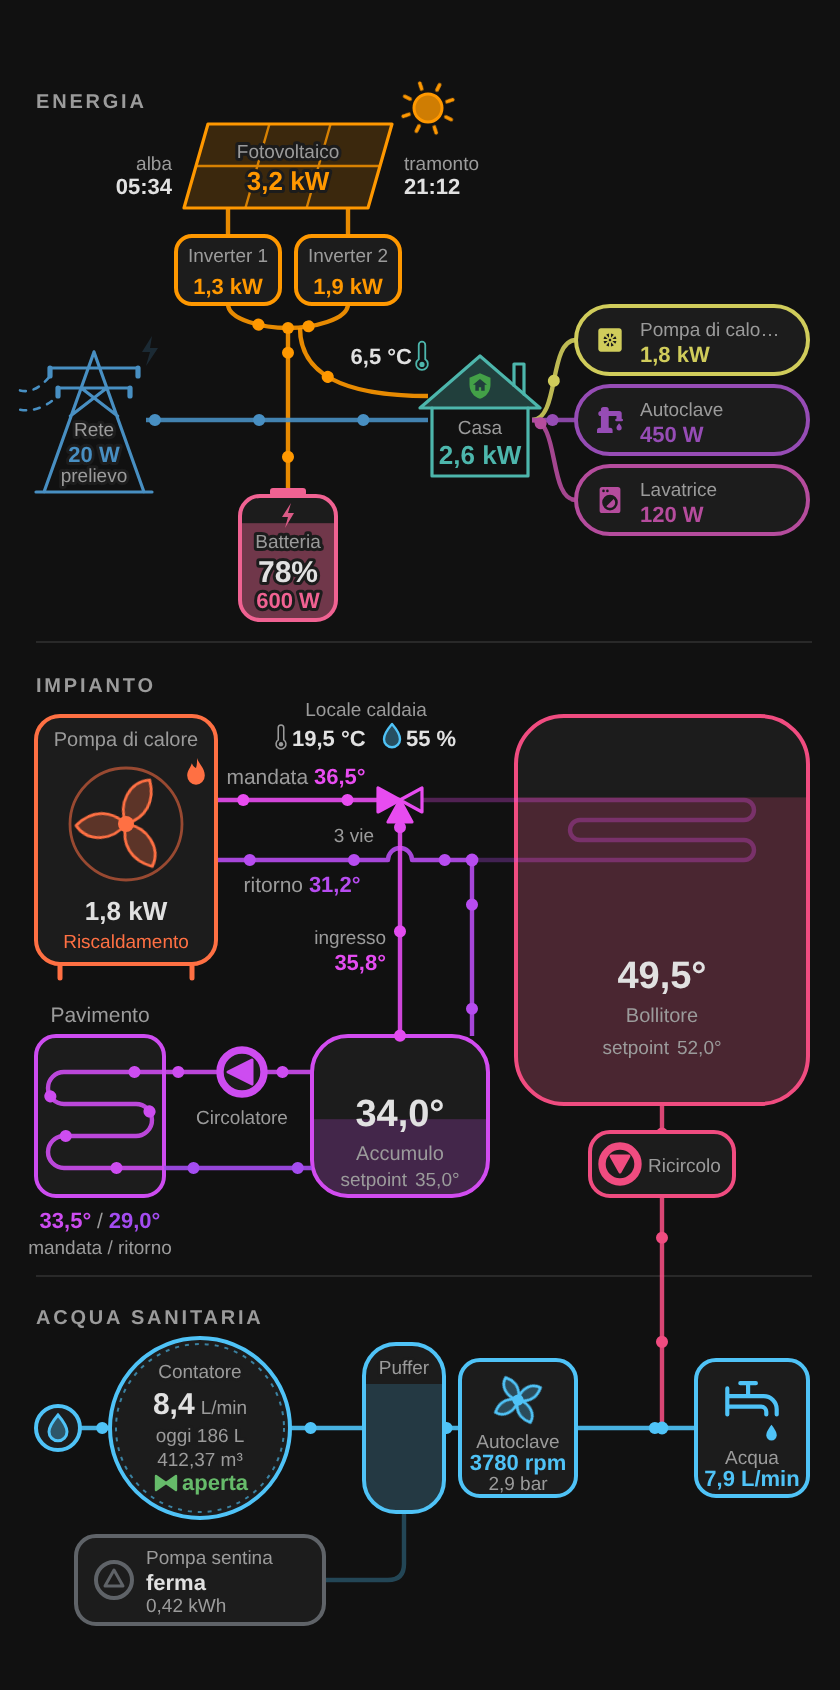
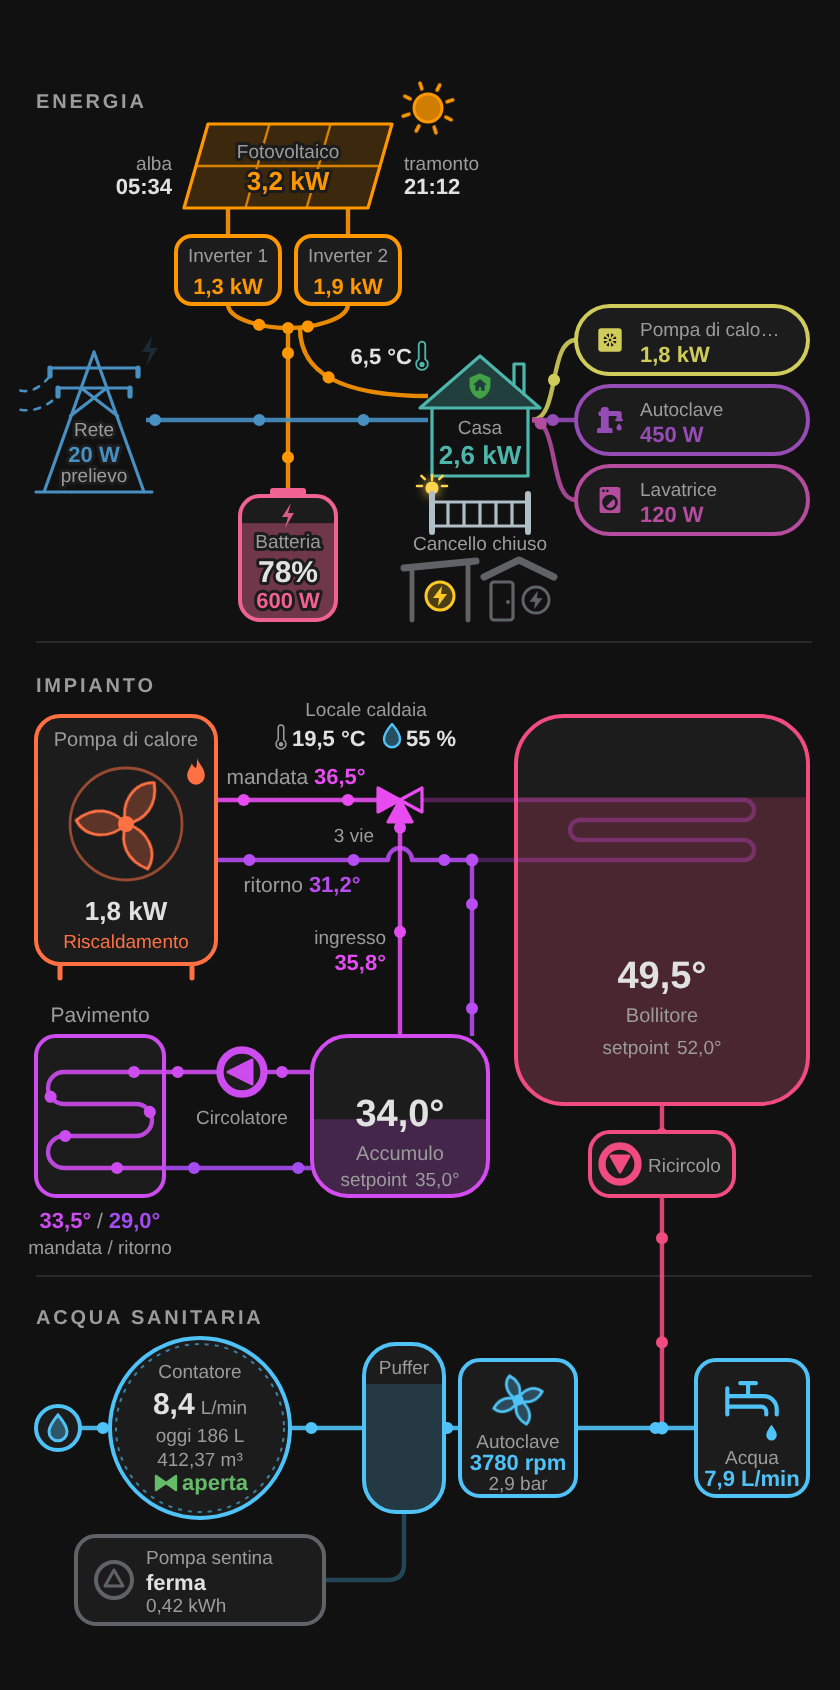
Add files via upload

Changed region(s): [[0.4643, 0.2769, 0.681, 0.3692], [0.0929, 0.4615, 0.1857, 0.5231], [0.5881, 0.8, 0.65, 0.8615]]

diff --git a/pdc-flow-card.js b/pdc-flow-card.js
@@ -21,6 +21,9 @@
  *       colore: teal              # facoltativo
  *       nascondi_a_zero: true     # facoltativo: la riga sparisce quando è spenta
  *       soglia: 5                 # facoltativo: accesa sopra questo valore (unità del sensore)
+ *     cancello_stato (on/open = aperto), cancello_luce (on = accesa): cancello sotto la casa,
+ *     tettoia_prese, ingresso_prese (switch delle prese): tettoia e ingresso sotto il cancello,
+ *       il pulsante accende e spegne la presa,
  *     allarme (alarm_control_panel: scudo nel tetto della casa, icona e colore secondo lo stato),
  *     locale_temperatura, locale_umidita (locale caldaia, tra pompa di calore e bollitore),
  *     pdc_potenza (anche lista), riscaldamento, raffrescamento,
@@ -50,7 +53,7 @@
  *   soglia_energia: 0          # facoltativo: kW sopra cui rete e batteria si animano (0 = qualsiasi valore)
  */
 
-const PDC_VERSION = '0.30.0';
+const PDC_VERSION = '0.31.0';
 
 // Nomi predefiniti dei componenti (sezione "nomi:")
 const PDC_NOMI = {
@@ -84,19 +87,22 @@ const PDC_NOMI = {
   rubinetto: 'Acqua',
   sentina: 'Pompa sentina',
   locale: 'Locale caldaia',
+  cancello: 'Cancello',
+  tettoia: 'Tettoia',
+  ingresso: 'Ingresso',
   setpoint: 'setpoint',
 };
 
 // Componenti a cui si può dare un colore (sezione "colori:")
 const PDC_COLORI = [
-  'fotovoltaico', 'inverter', 'batteria', 'rete_elettrica', 'casa',
+  'fotovoltaico', 'inverter', 'batteria', 'rete_elettrica', 'casa', 'cancello', 'prese',
   'esterno', 'locale', 'pompa_di_calore', 'valvola_3_vie', 'mandata', 'ritorno', 'bollitore', 'accumulo',
   'ingresso_accumulo', 'circolatore', 'pavimento', 'rete', 'acqua_fredda', 'stop', 'contatore', 'puffer',
   'autoclave', 'ricircolo', 'rubinetto', 'sentina',
 ];
 
 // Sezione energia (sopra l'impianto)
-const PDC_ENERGY_KEYS = ['fv_potenza', 'inverter_1_potenza', 'inverter_2_potenza', 'sole', 'fv_previsione', 'meteo', 'batteria_livello', 'batteria_potenza', 'rete_potenza', 'rete_stato', 'casa_potenza', 'allarme'];
+const PDC_ENERGY_KEYS = ['fv_potenza', 'inverter_1_potenza', 'inverter_2_potenza', 'sole', 'fv_previsione', 'meteo', 'batteria_livello', 'batteria_potenza', 'rete_potenza', 'rete_stato', 'casa_potenza', 'allarme', 'cancello_stato', 'cancello_luce', 'tettoia_prese', 'ingresso_prese'];
 
 const PDC_ENTITY_KEYS = [
   ...PDC_ENERGY_KEYS,
@@ -112,7 +118,7 @@ const PDC_MAIN_KEYS = PDC_ENTITY_KEYS.filter((k) => !PDC_ENERGY_KEYS.includes(k)
 // Ordine delle chiavi nello YAML scritto dall'editor: energia, pompa di calore e impianto, acqua sanitaria
 const PDC_ENTITY_ORDER = [
   'temperatura_esterna', 'fv_potenza', 'inverter_1_potenza', 'inverter_2_potenza', 'sole', 'fv_previsione', 'meteo', 'batteria_livello', 'batteria_potenza',
-  'rete_potenza', 'rete_stato', 'casa_potenza', 'allarme',
+  'rete_potenza', 'rete_stato', 'casa_potenza', 'allarme', 'cancello_stato', 'cancello_luce', 'tettoia_prese', 'ingresso_prese',
   'locale_temperatura', 'locale_umidita', 'pdc_potenza', 'riscaldamento', 'raffrescamento', 'acs_potenza', 'acs_attiva',
   'pdc_mandata', 'pdc_ritorno', 'acs_temperatura', 'acs_setpoint', 'accumulo_temperatura', 'accumulo_setpoint',
   'accumulo_ingresso', 'circolatore', 'pavimento_mandata', 'pavimento_ritorno',
@@ -144,6 +150,10 @@ const PDC_DEMO = {
   rete_potenza: ['sensor', 0.02, 'kW'],
   casa_potenza: ['sensor', 2.62, 'kW'],
   allarme: ['alarm_control_panel', 'armed_home'],
+  cancello_stato: ['binary_sensor', 'off'],
+  cancello_luce: ['switch', 'on'],
+  tettoia_prese: ['switch', 'on'],
+  ingresso_prese: ['switch', 'off'],
   rete_stato: ['binary_sensor', 'on'],
   u_pdc: ['sensor', 1.8, 'kW'],
   u_autoclave: ['sensor', 450, 'W'],
@@ -441,6 +451,39 @@ const PDC_SVG_ENERGY = `
     <rect class="hit" x="-32" y="-34" width="64" height="64"/>
     <path class="roof" d="M-30 -6 L0 -32 L30 -6 Z"/>
     <path class="ico2" d="M17 -17.3 V-28 H22 V-12.9 M-24 -6 V28 H24 V-6"/>
+    <!-- Cancello sotto la casa: chiuso o aperto, lampione acceso o spento -->
+    <g id="g-gate" class="clickable hidden" data-key="cancello_stato|cancello_luce">
+      <rect class="hit" x="-30" y="31" width="60" height="36"/>
+      <g id="gate-lamp">
+        <path class="lrays" d="M-24 30 V27.5 M-29 33 H-31.5 M-19 33 H-16.5 M-27.6 29.6 L-29.3 27.9 M-20.4 29.6 L-18.7 27.9"/>
+        <circle class="lamp" cx="-24" cy="34" r="2.6"/>
+      </g>
+      <path class="gpost" d="M-24 37 V56 M24 37 V56"/>
+      <path class="gbars" id="gate-closed" d="M-24 41 H24 M-24 53 H24 M-16 41 V53 M-8 41 V53 M0 41 V53 M8 41 V53 M16 41 V53"/>
+      <path class="gbars hidden" id="gate-open" d="M-24 41 L-13 45 V56 L-24 53 M-18.5 43 V54.5 M24 41 L13 45 V56 L24 53 M18.5 43 V54.5"/>
+      <text x="0" y="65" class="lbl c xs" id="t-gate">Cancello</text>
+    </g>
+    <!-- Sotto il cancello: tettoia (sinistra) e ingresso (destra), il pulsante accende/spegne la presa.
+         La base è allineata al fondo della batteria (y 100). -->
+    <g id="tt1" class="hidden">
+      <title id="tt1-t">Tettoia</title>
+      <path class="troof" d="M-38 74 L-2 70.5"/>
+      <path class="tpost" d="M-34 73.6 V100 M-6 70.9 V100"/>
+      <g class="clickable tsw-g" data-toggle="tettoia_prese">
+        <circle class="tsw" cx="-20" cy="88" r="7"/>
+        <path class="tbolt" transform="translate(-20 88)" d="M1 -5 L-3.5 1 H-0.5 L-1 5 L3.5 -1 H0.5 Z"/>
+      </g>
+    </g>
+    <g id="tt2" class="hidden">
+      <title id="tt2-t">Ingresso</title>
+      <path class="troof" d="M2 78.5 L19.5 70 L37 78.5"/>
+      <rect class="tdoor" x="5.5" y="81" width="11" height="19" rx="1.5"/>
+      <circle class="tknob" cx="14" cy="91" r="1"/>
+      <g class="clickable tsw-g" data-toggle="ingresso_prese">
+        <circle class="tsw" cx="28" cy="90" r="6.5"/>
+        <path class="tbolt" transform="translate(28 90) scale(0.93)" d="M1 -5 L-3.5 1 H-0.5 L-1 5 L3.5 -1 H0.5 Z"/>
+      </g>
+    </g>
     <!-- Allarme: scudo al centro del tetto, icona dall'entità -->
     <g id="g-alarm" class="clickable hidden" data-key="allarme">
       <rect class="hit" x="-9" y="-26" width="18" height="18"/>
@@ -805,6 +848,19 @@ const PDC_CSS = `
   .flow.thin:not(.on) { opacity: 0; }
   .uico { fill: var(--c, var(--pdc-idle)); }
   .aico { fill: var(--c, var(--pdc-idle)); }
+  .gpost { fill: none; stroke: var(--c, var(--pdc-idle)); stroke-width: 3; stroke-linecap: round; }
+  .gbars { fill: none; stroke: var(--c, var(--pdc-idle)); stroke-width: 1.6; stroke-linejoin: round; stroke-linecap: round; }
+  .lamp  { fill: var(--l, none); stroke: var(--l, var(--pdc-idle)); stroke-width: 1.4; }
+  .lrays { fill: none; stroke: var(--l, transparent); stroke-width: 1.3; stroke-linecap: round; opacity: 0; }
+  #gate-lamp.on .lrays { opacity: 1; }
+  #gate-lamp.on .lamp { filter: drop-shadow(0 0 3px #ffd54f); }
+  .troof { fill: none; stroke: var(--pdc-idle); stroke-width: 3.5; stroke-linecap: round; stroke-linejoin: round; }
+  .tpost { fill: none; stroke: var(--pdc-idle); stroke-width: 2.4; stroke-linecap: round; }
+  .tdoor { fill: none; stroke: var(--pdc-idle); stroke-width: 1.6; }
+  .tknob { fill: var(--pdc-idle); }
+  .tsw-g { cursor: pointer; }
+  .tsw   { fill: var(--s, transparent); fill-opacity: .25; stroke: var(--s, var(--pdc-idle)); stroke-width: 1.5; }
+  .tbolt { fill: var(--s, var(--pdc-idle)); }
   #g-alarm.trig .aico { animation: pdc-blink 1s steps(2, start) infinite; }
   @keyframes pdc-blink { to { opacity: .2; } }
 
@@ -942,7 +998,15 @@ class PdcFlowCard extends HTMLElement {
 
   _click(ev) {
     if (this._demo) return;
-    const node = ev.composedPath().find((n) => n.getAttribute && (n.getAttribute('data-key') || n.getAttribute('data-entity')));
+    const path = ev.composedPath();
+    // pulsanti delle prese: accendono e spengono direttamente
+    const tg = path.find((n) => n.getAttribute && n.getAttribute('data-toggle'));
+    if (tg) {
+      const tid = this._ids(tg.getAttribute('data-toggle'))[0];
+      if (tid && this._hass && typeof this._hass.callService === 'function') this._hass.callService('homeassistant', 'toggle', { entity_id: tid });
+      return;
+    }
+    const node = path.find((n) => n.getAttribute && (n.getAttribute('data-key') || n.getAttribute('data-entity')));
     if (!node) return;
     let id = node.getAttribute('data-entity');
     if (!id) {
@@ -1551,6 +1615,42 @@ class PdcFlowCard extends HTMLElement {
     this._vis(['g-batt'], BATT);
     this._vis(['g-grid'], GRID || has('rete_stato'));
     this._vis(['g-casa'], HOUSE);
+    // Cancello sotto la casa e tettoia sotto il cancello
+    const GATE = HOUSE && (has('cancello_stato') || has('cancello_luce'));
+    const TT1 = HOUSE && has('tettoia_prese');
+    const TT2 = HOUSE && has('ingresso_prese');
+    const TETT = TT1 || TT2;
+    this._vis(['g-gate'], GATE);
+    this._vis(['tt1'], TT1);
+    this._vis(['tt2'], TT2);
+    if (GATE) {
+      const gs = this._st('cancello_stato');
+      const gv = gs ? String(gs.state).toLowerCase() : '';
+      const open = ['on', 'open', 'opening', 'closing', 'unlocked', 'unlocking'].includes(gv);
+      this._vis(['gate-closed'], !open);
+      this._vis(['gate-open'], open);
+      this._color('g-gate', fixed('cancello') || (open ? '#fb8c00' : gs ? '#b0bec5' : null));
+      const nomi = c.nomi || {};
+      const gName = nomi.cancello !== undefined && nomi.cancello !== null ? String(nomi.cancello) : PDC_NOMI.cancello;
+      const gTxt = gs ? (open ? (gv === 'opening' ? 'apertura' : gv === 'closing' ? 'chiusura' : 'aperto') : 'chiuso') : '';
+      this._text('t-gate', [gName, gTxt].filter(Boolean).join(' '), open ? '#fb8c00' : '');
+      const lOn = this._on('cancello_luce') === true;
+      this._els['gate-lamp'].classList.toggle('on', lOn);
+      this._els['gate-lamp'].style.setProperty('--l', lOn ? '#ffd54f' : 'var(--pdc-idle)');
+      this._vis(['gate-lamp'], has('cancello_luce'));
+    }
+    if (TETT) {
+      const nomi = c.nomi || {};
+      for (const [k, id, nk] of [['tettoia_prese', 'tt1', 'tettoia'], ['ingresso_prese', 'tt2', 'ingresso']]) {
+        const on = this._on(k) === true;
+        const g = this._els[id].querySelector('.tsw-g');
+        if (on) g.style.setProperty('--s', fixed('prese') || '#ffca28');
+        else g.style.removeProperty('--s');
+        const nm = nomi[nk] !== undefined && nomi[nk] !== null ? String(nomi[nk]) : PDC_NOMI[nk];
+        this._els[id + '-t'].textContent = `${nm}: presa ${on ? 'accesa' : 'spenta'}`;
+      }
+    }
+
     // Allarme nel tetto: icona dell'entità (o quella di HA per lo stato) e colore dello stato
     const alSt = this._st('allarme');
     this._vis(['g-alarm'], HOUSE && !!alSt);
@@ -1641,7 +1741,10 @@ class PdcFlowCard extends HTMLElement {
     });
 
     // Altezze: energia (cresce con le utenze) + impianto/acqua
-    const eh = n ? Math.max(E.EH, ys[n - 1] + 30) : E.EH;
+    let eh = n ? Math.max(E.EH, ys[n - 1] + 30) : E.EH;
+    // spazio per cancello e tettoia sotto la casa
+    const gBottom = TETT ? 100 : GATE ? 67 : 0;
+    if (gBottom) eh = Math.max(eh, E.Y + gBottom + 6);
     if (this._eH !== eh) {
       const sv = this._els['sv-e'];
       sv.setAttribute('height', eh);
@@ -1917,6 +2020,10 @@ const PDC_FIELD_SELECTORS = {
   rete_inverti: { boolean: {} },
   casa_potenza: PDC_SENSOR,
   allarme: { entity: { domain: 'alarm_control_panel' } },
+  cancello_stato: PDC_ANY,
+  cancello_luce: PDC_ANY,
+  tettoia_prese: PDC_ANY,
+  ingresso_prese: PDC_ANY,
   rete_stato: PDC_ANY,
   soglia_energia: { number: { min: 0, max: 2, step: 0.01, mode: 'box', unit_of_measurement: 'kW' } },
   temperatura_esterna: PDC_SENSOR,
@@ -1974,6 +2081,8 @@ const PDC_GROUPS = [
   ['batteria', 'Batteria di accumulo', 'mdi:home-battery', ['batteria_livello', 'batteria_potenza', 'batteria_inverti', 'batteria_colora', 'batteria_min', 'batteria_max', 'nome_batteria', 'colore_batteria']],
   ['rete_elettrica', 'Rete elettrica', 'mdi:transmission-tower', ['rete_potenza', 'rete_inverti', 'rete_stato', 'nome_rete_elettrica', 'colore_rete_elettrica']],
   ['casa', 'Casa', 'mdi:home-lightning-bolt', ['casa_potenza', 'allarme', 'nome_casa', 'colore_casa']],
+  ['cancello', 'Cancello (sotto la casa)', 'mdi:gate', ['cancello_stato', 'cancello_luce', 'nome_cancello', 'colore_cancello']],
+  ['prese', 'Prese tettoia e ingresso', 'mdi:power-socket-eu', ['tettoia_prese', 'ingresso_prese', 'nome_tettoia', 'nome_ingresso', 'colore_prese']],
   ['esterno', 'Temperatura esterna', 'mdi:thermometer', ['temperatura_esterna', 'nome_esterno', 'colore_esterno', 'tcolora_esterno', 'tmin_esterno', 'tmax_esterno']],
   ['locale', 'Locale caldaia', 'mdi:home-thermometer', ['locale_temperatura', 'locale_umidita', 'nome_locale', 'colore_locale', 'tcolora_locale', 'tmin_locale', 'tmax_locale']],
   ['pompa_di_calore', 'Pompa di calore', 'mdi:heat-pump', ['pdc_potenza', 'riscaldamento', 'raffrescamento', 'soglia_pdc', 'nome_pompa_di_calore', 'colore_pompa_di_calore']],
@@ -2030,7 +2139,7 @@ const PDC_U_SELECTORS = {
 // Le tre parti della card, nello stesso ordine del disegno: [chiave, titolo, icona, campi della sezione, gruppi]
 const PDC_SECTIONS = [
   ['energia', 'Energia', 'mdi:lightning-bolt', ['nome_sezione_energia', 'soglia_energia'],
-    ['esterno', 'fotovoltaico', 'batteria', 'rete_elettrica', 'casa']],
+    ['esterno', 'fotovoltaico', 'batteria', 'rete_elettrica', 'casa', 'cancello', 'prese']],
   ['impianto', 'Pompa di calore e impianto', 'mdi:heat-pump', ['nome_sezione_impianto', 'nome_setpoint'],
     ['locale', 'pompa_di_calore', 'valvola_3_vie', 'mandata', 'ritorno', 'bollitore', 'accumulo', 'ingresso_accumulo', 'circolatore', 'pavimento']],
   ['acqua', 'Acqua sanitaria', 'mdi:water', ['nome_sezione_acqua'],
@@ -2095,6 +2204,11 @@ const PDC_LABELS = {
   soglia_energia: 'Rete e batteria animate sopra (0 = sempre)',
   casa_potenza: 'Consumo della casa',
   allarme: 'Allarme (scudo nel tetto della casa)',
+  cancello_stato: 'Cancello aperto/chiuso (on o open = aperto)',
+  cancello_luce: 'Luce del cancello (on = accesa)',
+  tettoia_prese: 'Presa tettoia (pulsante: accende/spegne)',
+  ingresso_prese: 'Presa ingresso (pulsante: accende/spegne)',
+  colore_prese: 'Colore pulsanti accesi',
   nome_sezione_energia: 'Nome della sezione',
   colore_rete_elettrica: 'Colore icona e linea',
   colore_fotovoltaico: 'Colore icona e linea',

diff --git a/README.md b/README.md
@@ -74,6 +74,10 @@ entities:
   casa_potenza: sensor.casa_consumo
   # Pompa di calore e impianto
   allarme: alarm_control_panel.allarme
+  cancello_stato: binary_sensor.cancello
+  cancello_luce: switch.luce_cancello
+  tettoia_prese: switch.prese_tettoia
+  ingresso_prese: switch.prese_ingresso
   locale_temperatura: sensor.locale_temperatura
   locale_umidita: sensor.locale_umidita
   pdc_potenza: sensor.pdc_potenza
@@ -114,6 +118,8 @@ entities:
 | `casa_potenza` | consumo della casa (se manca, viene calcolato) |
 | `temperatura_esterna` | temperatura esterna, piccola a sinistra del tetto della casa (senza la casa in alto a sinistra; senza la parte energia nel titolo dell'impianto) |
 | `allarme` | allarme (`alarm_control_panel`): scudo al centro del tetto della casa, con l'icona dell'entità o quella di HA per lo stato; verde inserito, grigio disinserito, arancione in attesa, rosso lampeggiante scattato |
+| `cancello_stato`, `cancello_luce` | cancello sotto la casa: aperto (arancione, `on`/`open`) o chiuso (grigio), con la lampada accesa o spenta (nome con `nomi: cancello`, colore fisso con `colori: cancello`) |
+| `tettoia_prese`, `ingresso_prese` | prese di corrente della tettoia (a sinistra) e dell'ingresso (a destra), sotto il cancello e allineate al fondo della batteria: **toccando il pulsante si accende o spegne la presa**; giallo acceso, grigio spento (nomi con `nomi: tettoia` e `nomi: ingresso`, colore con `colori: prese`) |
 | `locale_temperatura`, `locale_umidita` | temperatura e umidità del locale caldaia, tra pompa di calore e bollitore (nome con `nomi: locale`, colori con `temperature: locale`) |
 | `pdc_potenza` | potenza della pompa di calore (anche una lista di sensori, che vengono sommati) |
 | `riscaldamento`, `raffrescamento` | modalità attiva della pompa di calore |
@@ -273,6 +279,8 @@ See the YAML example in the Italian section above: the keys are the same.
 | `casa_potenza` | house consumption (calculated if missing) |
 | `temperatura_esterna` | outdoor temperature, small, left of the house roof (without the house, top-left; without the energy section, in the heating system title) |
 | `allarme` | alarm (`alarm_control_panel`): shield in the middle of the house roof, with the entity's icon or HA's icon for the state; green armed, grey disarmed, orange pending, flashing red triggered |
+| `cancello_stato`, `cancello_luce` | gate below the house: open (orange, `on`/`open`) or closed (grey), with the lamp on or off (label with `nomi: cancello`, fixed colour with `colori: cancello`) |
+| `tettoia_prese`, `ingresso_prese` | power sockets of the canopy (left) and the entrance (right), below the gate and aligned with the bottom of the battery: **tapping the button turns the socket on or off**; yellow on, grey off (labels with `nomi: tettoia` and `nomi: ingresso`, colour with `colori: prese`) |
 | `locale_temperatura`, `locale_umidita` | boiler room temperature and humidity, between heat pump and hot water tank (label with `nomi: locale`, colours with `temperature: locale`) |
 | `pdc_potenza` | heat pump power (also a list of sensors, which are added up) |
 | `riscaldamento`, `raffrescamento` | heating / cooling mode active |
